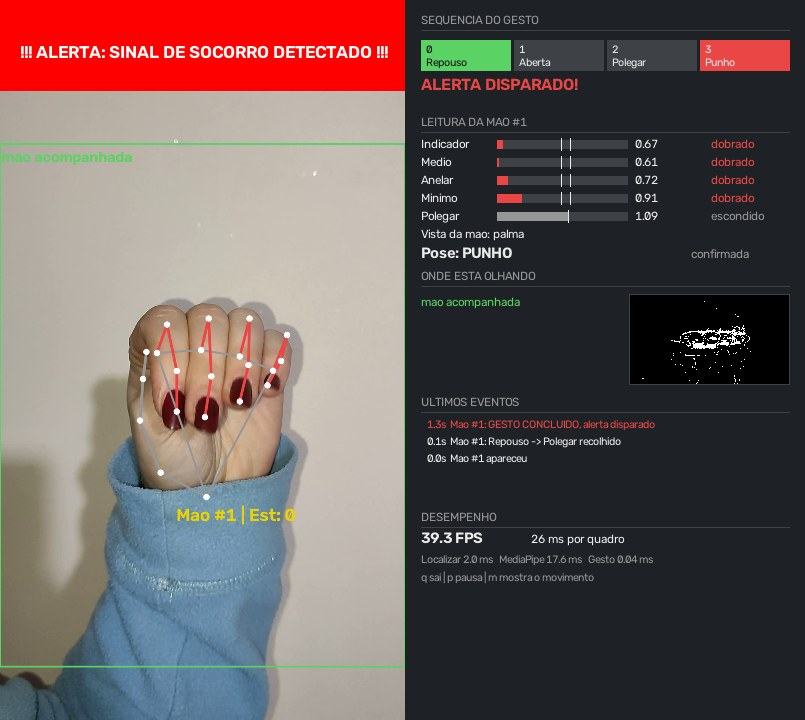
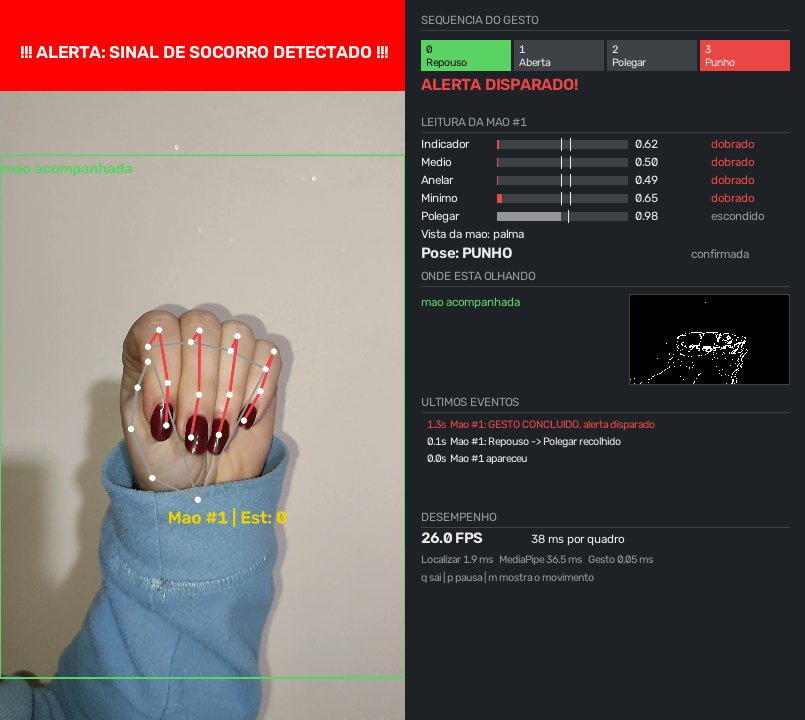
feat: separa o painel limpo do profundo e publica os resultados finais

diff --git a/testes/test_painel.py b/testes/test_painel.py
@@ -1,4 +1,5 @@
 import os
+import runpy
 import sys
 import time
 
@@ -12,11 +13,12 @@ sys.path.insert(0, os.path.dirname(os.path.abspath(__file__)))
 import detecao_socorro
 from alerta import Alerta
 from gesto import Configuracao, RastreadorMaos
-from painel import ALTURA, ESPERANDO, LARGURA_LATERAL, Painel
+from painel import ALTURA, CINZA, ESPERANDO, LARANJA, LARGURA_LATERAL, Painel, VERDE
 from pipeline import Quadro, Regiao
 import mao_sintetica as ms
 
 MEDIDAS = {"fps": 25.0, "ms_total": 38.0, "ms_localizar": 1.5, "ms_mediapipe": 30.0, "ms_gesto": 0.05}
+REGIOES = [Regiao((100, 100, 500, 500), "mao"), Regiao((600, 100, 900, 400), "movimento"), Regiao((0, 0, 1280, 720), "inteiro")]
 
 
 def frame(largura=1280, altura=720):
@@ -44,13 +46,35 @@ def test_tela_com_cada_pose(tmp_path, pontos):
     rastreador, painel, alerta = montar(tmp_path)
     for i in range(3):
         rastreador.atualizar([(pontos(), "Left")], i * 0.1)
-    regioes = [Regiao((100, 100, 500, 500), "mao"), Regiao((600, 100, 900, 400), "movimento"), Regiao((0, 0, 1280, 720), "inteiro")]
     mascara = np.zeros((180, 320), dtype=np.uint8)
     antes = frame()
-    tela = desenhar(painel, rastreador, alerta, tela=antes, tempo=0.3, mascara=mascara, regioes=regioes, clareado=True)
+    tela = desenhar(painel, rastreador, alerta, tela=antes, tempo=0.3, mascara=mascara, regioes=REGIOES, clareado=True)
     assert tela.shape[0] == ALTURA
     # O vídeo original continua limpo: só a cópia recebe os desenhos
     assert (antes == 180).all()
+
+
+def tem_laranja(img):
+    # A tolerância pega também a borda suavizada do texto
+    return bool((np.abs(img.astype(int) - LARANJA).sum(axis=2) < 60).any())
+
+
+def test_versao_limpa_mostra_so_o_quadrado_da_mao(tmp_path):
+    rastreador, painel, alerta = montar(tmp_path)
+    tela = desenhar(painel, rastreador, alerta, regioes=REGIOES)
+    assert (tela[300, 100] == VERDE).all()
+    assert (tela[300, 600] == 180).all()
+    assert (tela[300, 0] == 180).all()
+    assert not tem_laranja(tela)
+
+
+def test_versao_profunda_mostra_tudo_o_que_o_sistema_examina(tmp_path):
+    rastreador, _, alerta = montar(tmp_path)
+    tela = desenhar(Painel(rastreador.cfg, profundo=True), rastreador, alerta, regioes=REGIOES)
+    assert (tela[300, 100] == VERDE).all()
+    assert (tela[300, 600] == LARANJA).all()
+    assert (tela[300, 0] == CINZA).all()
+    assert tem_laranja(tela[:, 1280:])
 
 
 @pytest.mark.parametrize("largura, altura", [(405, 720), (1080, 1920), (1920, 1080), (640, 480)])
@@ -196,6 +220,21 @@ def test_programa_completo_em_um_arquivo_com_a_tela(tmp_path, monkeypatch):
     detecao_socorro.main()
     assert len(mostradas) == 20
     assert mostradas[0] == (ALTURA, 960 + LARGURA_LATERAL, 3)
+
+
+def test_programa_profundo_abre_a_mesma_tela_na_janela_dele(tmp_path, monkeypatch):
+    video = str(tmp_path / "video.mp4")
+    criar_video(video)
+    janelas = set()
+    monkeypatch.setattr(cv2, "namedWindow", lambda *a: None)
+    monkeypatch.setattr(cv2, "imshow", lambda nome, _: janelas.add(nome))
+    monkeypatch.setattr(cv2, "waitKey", lambda _: -1)
+    monkeypatch.setattr(cv2, "destroyAllWindows", lambda: None)
+    monkeypatch.chdir(tmp_path)
+    monkeypatch.setattr(sys, "argv", ["detecao", "--fonte", video, "--sem-som"])
+    programa = os.path.join(os.path.dirname(os.path.dirname(os.path.abspath(__file__))), "detecao_socorro_profundo.py")
+    runpy.run_path(programa, run_name="__main__")
+    assert janelas == {detecao_socorro.JANELA_PROFUNDA}
 
 
 def test_q_encerra_o_programa(tmp_path, monkeypatch):

diff --git a/detecao_socorro.py b/detecao_socorro.py
@@ -10,7 +10,8 @@ from gesto import RastreadorMaos
 from painel import Painel
 from pipeline import DetectorMaos
 
-JANELA = "Sistema de Monitoramento (Movimento + MediaPipe)"
+JANELA = "Sistema de Monitoramento"
+JANELA_PROFUNDA = "Sistema de Monitoramento (visao profunda)"
 FALHAS_PARA_RECONECTAR = 60
 ESPERA_RECONEXAO = 2.0  # Segundos
 
@@ -103,7 +104,8 @@ class CameraAoVivo:
         self.cap.release()
 
 
-def main():
+def main(profundo=False):
+    """profundo=True também mostra o que o sistema examina além das mãos (ver detecao_socorro_profundo.py)."""
     args = ler_argumentos()
     webcam = args.fonte.isdigit()
     ao_vivo = webcam or "://" in args.fonte
@@ -117,19 +119,20 @@ def main():
     print("Carregando modelos...")
     detector = DetectorMaos(localizador=None if args.localizador == "inteiro" else args.localizador)
     try:
-        monitorar(args, fonte, detector, webcam, ao_vivo)
+        monitorar(args, fonte, detector, webcam, ao_vivo, profundo)
     finally:
         fonte.liberar()
         detector.fechar()
         cv2.destroyAllWindows()
 
 
-def monitorar(args, fonte, detector, webcam, ao_vivo):
+def monitorar(args, fonte, detector, webcam, ao_vivo, profundo):
     rastreador = RastreadorMaos()
     alerta = Alerta(com_som=not args.sem_som)
-    painel = Painel(rastreador.cfg, time.monotonic() if ao_vivo else 0.0)
+    painel = Painel(rastreador.cfg, time.monotonic() if ao_vivo else 0.0, profundo)
+    janela = JANELA_PROFUNDA if profundo else JANELA
     if not args.sem_janela:
-        cv2.namedWindow(JANELA, cv2.WINDOW_NORMAL)
+        cv2.namedWindow(janela, cv2.WINDOW_NORMAL)
     print("Iniciando monitoramento. Pressione 'q' na janela para sair.")
 
     indice = 0
@@ -166,7 +169,7 @@ def monitorar(args, fonte, detector, webcam, ao_vivo):
 
         mascara = detector.movimento.mascara if detector.movimento is not None else None
         medidas = {"fps": fps, "ms_total": ms_total, "ms_localizar": quadro.ms_localizar, "ms_mediapipe": quadro.ms_mediapipe, "ms_gesto": ms_gesto}
-        cv2.imshow(JANELA, painel.desenhar(frame, quadro, rastreador, alerta, mascara, medidas, tempo))
+        cv2.imshow(janela, painel.desenhar(frame, quadro, rastreador, alerta, mascara, medidas, tempo))
 
         # Em arquivo espera o tempo do vídeo, para dar para acompanhar a tela
         restante = 1000 / fonte.fps - (time.perf_counter() - inicio) * 1000 if not ao_vivo else 1

diff --git a/painel.py b/painel.py
@@ -67,12 +67,17 @@ def medidor(img, x, y, largura, valor, minimo, maximo, marcas, cor):
 
 
 class Painel:
-    def __init__(self, cfg, tempo_inicial=0.0):
+    def __init__(self, cfg, tempo_inicial=0.0, profundo=False):
         self.cfg = cfg
         self.tempo_inicial = tempo_inicial
+        self.profundo = profundo
         self.eventos = deque(maxlen=6)
         self.estados = {}
         self.mostrar_mascara = True
+
+    def _regioes_visiveis(self, quadro):
+        """A versão limpa mostra só as mãos. A profunda mostra também o movimento e o quadro inteiro."""
+        return quadro.regioes if self.profundo else [regiao for regiao in quadro.regioes if regiao.origem == "mao"]
 
     def _anotar(self, tempo, conteudo):
         linha = f"{tempo - self.tempo_inicial:6.1f}s  {conteudo}"
@@ -111,7 +116,7 @@ class Painel:
     def _desenhar_video(self, frame, quadro, rastreador):
         fator = frame.shape[0] / ALTURA
         grossura = max(1, round(1.5 * fator))
-        for regiao in quadro.regioes:
+        for regiao in self._regioes_visiveis(quadro):
             x1, y1, x2, y2 = regiao.caixa
             cor = CORES_ORIGEM[regiao.origem]
             cv2.rectangle(frame, (x1, y1), (x2, y2), cor, grossura)
@@ -220,10 +225,11 @@ class Painel:
         titulo(img, "ONDE ESTA OLHANDO", y)
         topo = y + 14
         y += 26
-        if not quadro.regioes:
-            texto(img, "Nada se mexeu, so esperando", MARGEM, y, CINZA, 0.42)
+        regioes = self._regioes_visiveis(quadro)
+        if not regioes:
+            texto(img, "Nada se mexeu, so esperando" if self.profundo else "Nenhuma mao acompanhada", MARGEM, y, CINZA, 0.42)
             y += 18
-        for regiao in quadro.regioes:
+        for regiao in regioes:
             texto(img, NOMES_ORIGEM[regiao.origem], MARGEM, y, CORES_ORIGEM[regiao.origem], 0.42)
             y += 18
         if quadro.clareado:

diff --git a/detecao_socorro_profundo.py b/detecao_socorro_profundo.py
@@ -1,0 +1,5 @@
+"""O mesmo programa de detecao_socorro.py, mostrando também as regiões que se mexeram e o quadro inteiro quando ele é examinado."""
+import detecao_socorro
+
+if __name__ == "__main__":
+    detecao_socorro.main(profundo=True)

diff --git a/README.md b/README.md
@@ -33,8 +33,8 @@ Você vai precisar de:
 Baixe o projeto e crie um ambiente só para ele:
 
 ```bash
-git clone https://github.com/LucasZanotto/projeto-tcc.git
-cd projeto-tcc
+git clone https://github.com/LucasZanotto/identificacao-sinal-de-socorro.git
+cd identificacao-sinal-de-socorro
 python -m venv .venv
 ```
 
@@ -65,10 +65,18 @@ O modelo do MediaPipe (`hand_landmarker.task`) já vem no repositório. O sistem
 python detecao_socorro.py
 ```
 
-Isso abre a câmera padrão e uma janela com o vídeo e o painel. Faça o gesto olhando o painel. Quando ele é reconhecido,
+Isso abre a câmera padrão e uma janela com o vídeo e o painel. Sobre o vídeo aparece só a mão, com o quadrado verde. Faça o gesto olhando o painel. Quando ele é reconhecido,
 aparece uma faixa vermelha, toca um som e fica um registro em `alertas.csv`, com a data, a hora e a posição da mão.
 
 Teclas: `q` sai, `p` pausa e `m` mostra ou esconde a imagem do movimento.
+
+### Ver tudo o que o sistema examina
+
+```bash
+python detecao_socorro_profundo.py
+```
+
+É o mesmo programa, com as mesmas opções e o mesmo resultado. A diferença é o que aparece na tela: ele desenha também os quadrados laranja das regiões que se mexeram e o quadro inteiro quando ele é examinado, e lista essas regiões no painel. Serve para entender por que uma mão foi ou não encontrada.
 
 ### Outras fontes de vídeo
 
@@ -94,10 +102,10 @@ python detecao_socorro.py --fonte testes/dados/signal_for_help_wikimedia.ogg
 
 ### O que o painel mostra
 
-- **No vídeo:** o recorte onde o sistema está olhando e os pontos da mão. Dedo verde está esticado, vermelho está dobrado e amarelo está em dúvida. O polegar fica azul quando está recolhido.
+- **No vídeo:** o quadrado verde da mão acompanhada e os pontos da mão. Dedo verde está esticado, vermelho está dobrado e amarelo está em dúvida. O polegar fica azul quando está recolhido.
 - **Sequência do gesto:** em que etapa está, o que ele espera agora e quanto tempo falta para desistir.
 - **Leitura da mão:** a medida de cada dedo e do polegar, com os limites que decidem a pose, e a pose que ele entendeu.
-- **Onde está olhando:** de onde veio o recorte, com a imagem do que se mexeu.
+- **Onde está olhando:** se há mão acompanhada, com a imagem do que se mexeu. A versão profunda lista também as regiões em movimento.
 - **Últimos eventos:** cada mudança de etapa, com o motivo quando a sequência volta ao início. O terminal mostra o mesmo.
 - **Desempenho:** FPS e o tempo de cada parte.
 
@@ -174,13 +182,13 @@ O trabalho não treina nenhuma rede neural, e a decisão do gesto é só geometr
 
 ## Gravar os vídeos de teste
 
-Cada pessoa grava 62 clipes de 6 segundos (33 com o sinal e 29 de controle), em cerca de 12 minutos. O programa diz o que fazer em cada clipe e já salva com o nome certo.
+Cada sessão grava 62 clipes de 6 segundos (33 com o sinal e 29 de controle), em cerca de 12 minutos. O programa diz o que fazer em cada clipe e já salva com o nome certo.
 
 ```bash
 python gravar_dataset.py --pessoa P01 --fitzpatrick III --dataset C:\tcc\dataset
 ```
 
-- `--pessoa` é um código, nunca o nome. Neste trabalho, P01 e P02 são os autores.
+- `--pessoa` é um código, nunca o nome. Neste trabalho, P01 é a primeira sessão do participante e P01_s2 é a segunda. O sufixo `_s2` faz o relatório entender que é a mesma pessoa.
 - `--fitzpatrick` é o tom de pele na escala de Fitzpatrick (I a VI). É obrigatório no comando e só serve para agrupar o relatório.
 - Com o celular como câmera, acrescente `--fonte http://IP_DO_CELULAR:4747/video`.
 - Grave fora de pastas sincronizadas, como OneDrive e Google Drive, para os vídeos não subirem para a nuvem.
@@ -229,6 +237,7 @@ Os testes da lógica usam uma mão sintética e não precisam de câmera. `test_
 | Arquivo | O que faz |
 |---|---|
 | `detecao_socorro.py` | Programa principal: lê o vídeo e liga todas as partes |
+| `detecao_socorro_profundo.py` | O mesmo programa, mostrando também as regiões que se mexeram |
 | `pipeline.py` | Correção de luz, detecção de movimento, MediaPipe e os recortes que seguem cada mão |
 | `gesto.py` | Medidas geométricas, poses e máquina de estados. Não depende de câmera nem de modelo |
 | `painel.py` | A tela que mostra o que o sistema está pensando |
@@ -239,55 +248,70 @@ Os testes da lógica usam uma mão sintética e não precisam de câmera. `test_
 | `hand_landmarker.task` | Modelo pronto do MediaPipe |
 | `yolov8n.pt` | Modelo pronto do YOLOv8n, só para a comparação de gasto |
 
-## Resultados até agora
+## Resultados
 
-> **Prévia com uma pessoa só**, a mesma cujos clipes serviram para escolher os limites. Mostra o comportamento do sistema, mas não é a medição final. A medição final usa os clipes da segunda pessoa, que ficam fora da calibração, e ainda não foi feita.
+> **Medição final com uma pessoa só**, um dos autores, que conhece o gesto. Os 58 clipes da primeira sessão serviram só para calibrar. Os 62 clipes da segunda sessão, gravados depois de o código e os limites estarem fechados, formam o teste. Os resultados não valem para outras pessoas nem para outros tons de pele.
 
-São 62 clipes reais, em 10 cenários. O sistema reconheceu **32 de 33 sinais** e disparou em **3 de 29 clipes de controle**, com acurácia de 93,5% (intervalo de confiança de 95%: 84,6 a 97,5).
+O sistema reconheceu **33 de 33 sinais** e disparou em **1 de 29 clipes de controle**:
 
-Assistindo aos quadros, os quatro erros vieram da gravação: em três clipes de controle o sinal foi feito de verdade, e em um clipe de sinal a mão já começa fechada. Os números continuam contando esses clipes, porque o certo é regravá-los, não trocar o rótulo depois de ver o resultado.
+| Métrica | Valor | Intervalo de confiança de 95% |
+|---|---|---|
+| Acurácia | 98,4% | 91,4 a 99,7 |
+| Precisão | 97,1% | 85,1 a 99,5 |
+| Sensibilidade | 100,0% | 89,6 a 100,0 |
+| Especificidade | 96,6% | 82,8 a 99,4 |
+| F1-Score | 98,5% | 94,6 a 100,0 |
 
-Mão virada, costas da mão, manga de longe, câmera alta, longe, oclusão e movimento brusco tiveram 3 de 3 sinais cada um.
+Todos os cenários tiveram todos os sinais reconhecidos, inclusive pouca luz, mão virada, costas da mão, manga de longe, câmera alta, longe, oclusão e movimento brusco. Cada cenário tem de 5 a 9 clipes, então isso mostra onde o sistema funciona, mas não é uma taxa precisa.
+
+O único alarme falso foi em um clipe com pouca luz, em que a mão fecha com o polegar encostado no indicador. Assistindo ao clipe, o polegar fica por fora do punho, então o erro é do sistema: o polegar encostou na palma antes de os dedos fecharem e foi lido como recolhido.
 
 **Comparação com regras mais simples, nos mesmos clipes:**
 
 | Regra de decisão | Acurácia | Sensibilidade | Especificidade | McNemar p |
 |---|---|---|---|---|
-| Sistema proposto | 93,5% | 97,0% | 89,7% | referência |
-| Protótipo anterior | 80,6% | 90,9% | 69,0% | 0,0078 |
-| Abre e fecha, sem olhar o polegar | 71,0% | 97,0% | 41,4% | 0,0001 |
-| Só punho, sem sequência | 64,5% | 100,0% | 24,1% | menor que 0,0001 |
+| Sistema proposto | 98,4% | 100,0% | 96,6% | referência |
+| Protótipo anterior | 91,9% | 100,0% | 82,8% | 0,1250 |
+| Abre e fecha, sem olhar o polegar | 74,2% | 100,0% | 44,8% | 0,0001 |
+| Só punho, sem sequência | 62,9% | 100,0% | 20,7% | menor que 0,0001 |
 
-**Rastreamento:** acompanhar a mão com o modo de vídeo levou a sensibilidade de 78,8% para 97,0% (McNemar p = 0,0312). Com a mão virada, foi de 1 para 3 sinais em 3.
+**Onde o MediaPipe olha:** detecção de movimento e YOLO deram o mesmo resultado em todos os clipes. No quadro inteiro, a sensibilidade caiu para 87,9%, com 1 de 3 sinais de longe.
+
+**Rastreamento:** sem ele, a sensibilidade caiu para 84,8%, com 1 de 3 sinais na mão virada, e o alarme falso não aparece. Cinco clipes só deram certo com o rastreamento e um só deu certo sem ele (McNemar p = 0,2188).
+
+**Correção de luz:** os sinais foram reconhecidos com e sem ela, e o único alarme falso só acontece com ela ligada. Um clipe não prova que ela atrapalha, mas este teste também não mostrou ganho.
 
 **Gasto**, sem placa de vídeo, em um Ryzen 5 4600G com 16 GB, com o vídeo chegando a 15 quadros por segundo. A CPU é o percentual do processador inteiro:
 
 | Configuração | Tempo por quadro | FPS máximo | CPU | Memória |
 |---|---|---|---|---|
-| **Movimento + MediaPipe (o sistema)** | **18,4 ms** | **54,2** | **3,3%** | **307 MB** |
-| O mesmo, sem o rastreamento | 29,4 ms | 34,0 | 4,5% | 302 MB |
-| YOLO a cada 3 quadros + MediaPipe | 34,5 ms | 29,0 | 8,3% | 641 MB |
-| YOLO em todo quadro + MediaPipe | 73,0 ms | 13,7 | 19,6% | 635 MB |
+| **Movimento + MediaPipe (o sistema)** | **24,7 ms** | **40,5** | **4,2%** | **313 MB** |
+| O mesmo, sem o rastreamento | 31,9 ms | 31,4 | 5,1% | 304 MB |
+| MediaPipe no quadro inteiro | 18,1 ms | 55,4 | 3,7% | 303 MB |
+| YOLO a cada 3 quadros + MediaPipe | 41,6 ms | 24,0 | 9,8% | 641 MB |
+| YOLO em todo quadro + MediaPipe | 88,4 ms | 11,3 | 19,7% | 636 MB |
 
-Medidas geométricas e máquina de estados levam 0,054 ms por quadro. Nos clipes de tamanho normal, movimento, quadro inteiro e YOLO dão o mesmo resultado em todos os cenários.
+Medidas geométricas e máquina de estados levam 0,042 ms por quadro.
 
-**Distância simulada**, encolhendo a imagem dos mesmos clipes (conta os clipes gravados errado). É aqui que a detecção de movimento faz diferença:
+**Distância simulada**, encolhendo a imagem dos mesmos clipes em cinco escalas, por isso os totais são maiores que o número de clipes. A palma mede cerca de 57 pixels a 1,5 m e cerca de 32 pixels a 3 ou 4 m. É aqui que a detecção de movimento faz diferença:
 
 | Tamanho da palma | Sinais, com movimento | Alarmes, com movimento | Sinais, quadro inteiro | Alarmes, quadro inteiro |
 |---|---|---|---|---|
-| 60 pixels ou mais | 23 de 26 | 1 de 20 | 23 de 26 | 1 de 20 |
-| 40 a 60 | 30 de 31 | 3 de 22 | 30 de 31 | 3 de 22 |
-| 30 a 40 | 24 de 25 | 3 de 26 | 21 de 25 | 3 de 26 |
-| 20 a 30 | 33 de 34 | 3 de 32 | 18 de 34 | 2 de 32 |
-| 15 a 20 | 24 de 25 | 3 de 23 | 1 de 25 | 0 de 23 |
-| 10 a 15 | 14 de 16 | 1 de 14 | 0 de 16 | 0 de 14 |
-| menos de 10 | 5 de 8 | 0 de 8 | 0 de 8 | 0 de 8 |
+| 60 pixels ou mais | 10 de 10 | 0 de 2 | 10 de 10 | 0 de 2 |
+| 40 a 60 | 37 de 37 | 1 de 27 | 36 de 37 | 1 de 27 |
+| 30 a 40 | 21 de 21 | 0 de 15 | 18 de 21 | 1 de 15 |
+| 20 a 30 | 37 de 38 | 0 de 36 | 16 de 38 | 0 de 36 |
+| 15 a 20 | 24 de 28 | 0 de 19 | 4 de 28 | 0 de 19 |
+| 10 a 15 | 15 de 25 | 0 de 32 | 0 de 25 | 0 de 32 |
+| menos de 10 | 1 de 6 | 1 de 14 | 0 de 6 | 0 de 14 |
 
 ## Limitações
 
-- **Poucas pessoas.** Os testes usam só os dois autores, que já conhecem o gesto. Os resultados não valem para outras pessoas nem para outros tons de pele.
-- **Pouca luz ainda não foi medida.** Os clipes do cenário de pouca luz ficaram claros demais, com brilho parecido com o dos clipes de luz boa.
+- **Uma pessoa só.** Os testes usam um dos autores, que conhece o gesto e acompanhou o desenvolvimento, em duas sessões no mesmo dia. Os resultados não valem para outras pessoas nem para outros tons de pele.
+- **Poucos clipes por cenário.** O cenário de oclusão, por exemplo, deu 100% de acurácia, mas o intervalo de confiança vai de 56,6 a 100.
+- **Polegar encostado na palma:** uma mão que encosta o polegar na palma antes de fechar pode ser confundida com o sinal, porque no punho o polegar não é conferido.
 - **Câmera real ainda não foi testada.** A câmera dos testes foi um celular com DroidCam, em um computador mais potente do que um dispositivo embarcado.
+- **Clipes curtos:** a medição não diz quantos alarmes falsos apareceriam em horas de monitoramento.
 - **Costas da mão:** o polegar fica escondido e o modelo só estima a posição dele.
 - **Mão totalmente de lado:** os dedos se escondem uns atrás dos outros, então o gesto tende a falhar.
 - **Câmera fixa:** a detecção de movimento pressupõe que a câmera não se mexe.
